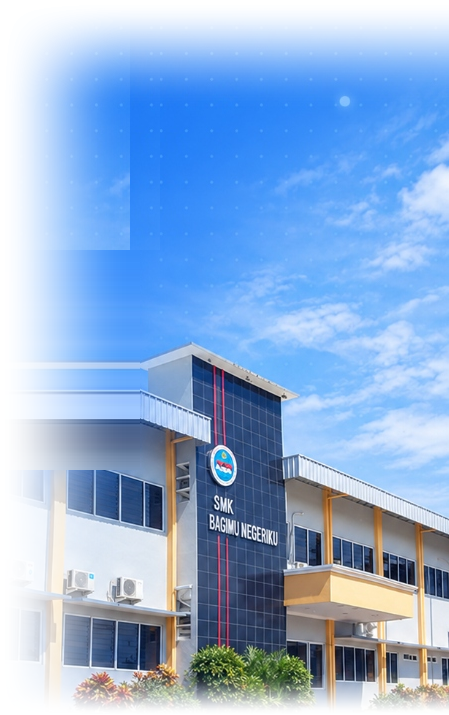
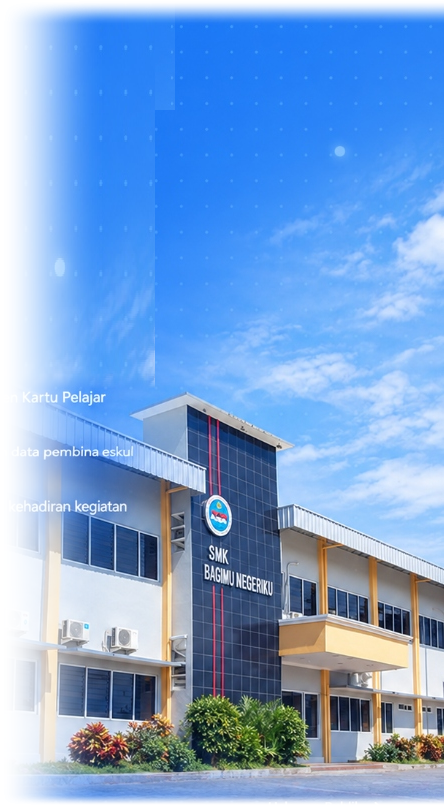
feat(ui): perbesar tampilan foto gedung sekolah dan bersihkan mockup backdrop login

diff --git a/resources/views/auth/admin-login.blade.php b/resources/views/auth/admin-login.blade.php
@@ -22,7 +22,7 @@
         <div class="pointer-events-none absolute top-1/2 -right-20 h-80 w-80 rounded-full bg-blue-400/20 blur-3xl z-0"></div>
 
         {{-- Foto Gedung SMK Bagimu Negeriku di Sudut Kanan Bawah --}}
-        <div class="pointer-events-none absolute bottom-0 right-0 h-[68%] xl:h-[75%] max-h-[820px] w-auto select-none z-0">
+        <div class="pointer-events-none absolute bottom-0 right-0 h-[82%] xl:h-[90%] 2xl:h-[95%] max-h-[960px] w-auto select-none z-0">
             <img src="{{ asset('images/gedung-mockup.png') }}?v={{ filemtime(public_path('images/gedung-mockup.png')) }}"
                  alt="Gedung SMK Bagimu Negeriku"
                  class="h-full w-auto object-contain object-right-bottom drop-shadow-2xl" />

diff --git a/resources/views/auth/siswa-login.blade.php b/resources/views/auth/siswa-login.blade.php
@@ -22,7 +22,7 @@
         <div class="pointer-events-none absolute top-1/2 -right-20 h-80 w-80 rounded-full bg-blue-400/20 blur-3xl z-0"></div>
 
         {{-- Foto Gedung SMK Bagimu Negeriku di Sudut Kanan Bawah --}}
-        <div class="pointer-events-none absolute bottom-0 right-0 h-[68%] xl:h-[75%] max-h-[820px] w-auto select-none z-0">
+        <div class="pointer-events-none absolute bottom-0 right-0 h-[82%] xl:h-[90%] 2xl:h-[95%] max-h-[960px] w-auto select-none z-0">
             <img src="{{ asset('images/gedung-mockup.png') }}?v={{ filemtime(public_path('images/gedung-mockup.png')) }}"
                  alt="Gedung SMK Bagimu Negeriku"
                  class="h-full w-auto object-contain object-right-bottom drop-shadow-2xl" />
